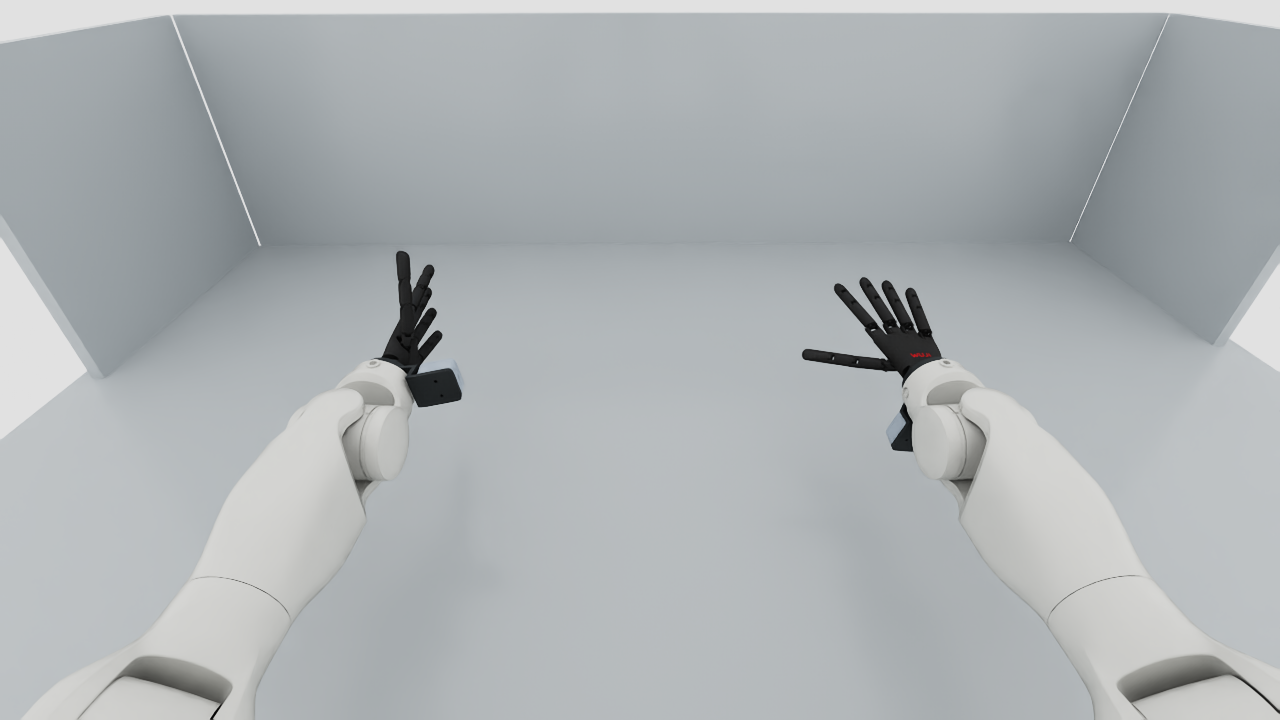
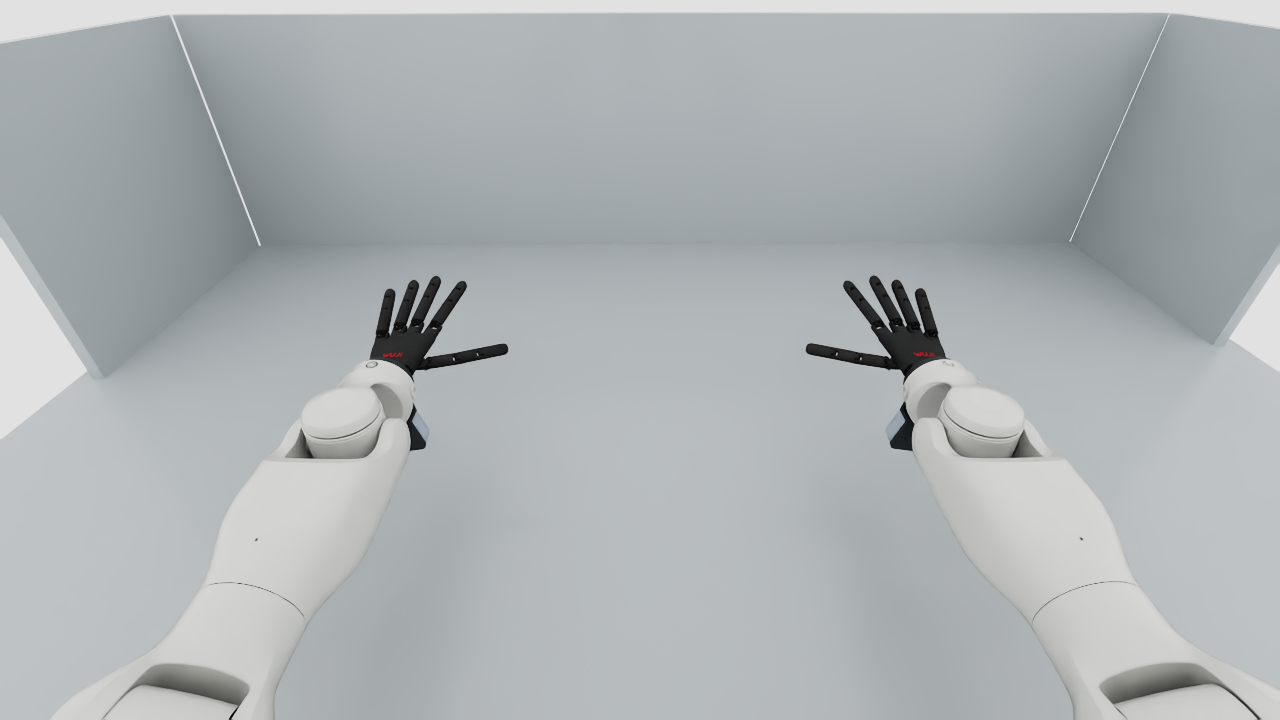
feat: mirror wrist mounts and reproduce PI05 startup pose
Apply gravity compensation before physics steps to reduce the startup transient.

diff --git a/build_pi05_scene.py b/build_pi05_scene.py
@@ -12,7 +12,8 @@ from pxr import Gf, Sdf, Usd, UsdGeom, UsdPhysics
 STIFFNESS = [2, 2, 2, 1.6, 1, 1, 1]  # N m / degree
 DAMPING_RATIOS = [0.3, 0.3, 0.3, 0.2, 0.2, 0.2, 0.2]
 PAYLOADS = {"L": (0.783, (13.574, 4.605, 99.013)),
-            "R": (0.987, (17.320, 6.692, 66.900))}
+            # Right tool assembly was rotated +90 degrees around the TCP Z axis.
+            "R": (0.987, (-6.692, 17.320, 66.900))}
 
 
 def parallel_axis(mass, offset):
@@ -107,12 +108,13 @@ def build_autoplay_scene():
     graph.CreateAttribute("evaluator:type", Sdf.ValueTypeNames.Token).Set("execution")
     graph.CreateAttribute("fabricCacheBacking", Sdf.ValueTypeNames.Token).Set("Shared")
     graph.CreateAttribute("fileFormatVersion", Sdf.ValueTypeNames.Int2).Set(Gf.Vec2i(1, 6))
-    graph.CreateAttribute("pipelineStage", Sdf.ValueTypeNames.Token).Set("pipelineStageOnDemand")
+    graph.CreateAttribute("pipelineStage", Sdf.ValueTypeNames.Token).Set("pipelineStageSimulation")
 
-    tick = stage.DefinePrim(graph.GetPath().AppendChild("OnPhysicsStep"), "OmniGraphNode")
-    tick.CreateAttribute("node:type", Sdf.ValueTypeNames.Token).Set("isaacsim.core.nodes.OnPhysicsStep")
+    tick = stage.DefinePrim(graph.GetPath().AppendChild("OnTick"), "OmniGraphNode")
+    tick.CreateAttribute("node:type", Sdf.ValueTypeNames.Token).Set("omni.graph.action.OnTick")
     tick.CreateAttribute("node:typeVersion", Sdf.ValueTypeNames.Int).Set(1)
-    pulse = tick.CreateAttribute("outputs:step", Sdf.ValueTypeNames.UInt)
+    tick.CreateAttribute("inputs:onlyPlayback", Sdf.ValueTypeNames.Bool).Set(False)
+    pulse = tick.CreateAttribute("outputs:tick", Sdf.ValueTypeNames.UInt)
 
     control = stage.DefinePrim(graph.GetPath().AppendChild("Impedance"), "OmniGraphNode")
     control.CreateAttribute("node:type", Sdf.ValueTypeNames.Token).Set("omni.graph.scriptnode.ScriptNode")

diff --git a/pi05_graph_controller.py b/pi05_graph_controller.py
@@ -1,7 +1,7 @@
 """Source embedded as text in the USD Action Graph."""
 import numpy as np
+import omni.physics.core
 import omni.physics.tensors as tensors
-import omni.timeline
 import omni.usd
 
 
@@ -27,17 +27,33 @@ def initialize(state, context, ratios):
     return True
 
 
-def compute(db):
-    if not omni.timeline.get_timeline_interface().is_playing():
-        return True
-    context = omni.usd.get_context()
-    state = db.per_instance_state
+def apply_control(state):
+    if state.context.get_stage() != state.stage:
+        return
     art = getattr(state, "art", None)
     if art is None or not art.check():
-        if not initialize(state, context, db.inputs.dampingRatios):
-            return True
+        if not initialize(state, state.context, state.ratios):
+            return
         art = state.art
     inds = state.arm_indices
     state.efforts[0, inds] = art.get_gravity_compensation_forces()[0, inds]
     art.set_dof_actuation_forces(state.efforts, state.articulation_indices)
+
+
+def compute(db):
+    state = db.per_instance_state
+    if getattr(state, "pre_step", None) is None:
+        state.context = omni.usd.get_context()
+        state.stage = state.context.get_stage()
+        state.ratios = np.asarray(db.inputs.dampingRatios).copy()
+        state.physics = omni.physics.core.get_physics_simulation_interface()
+        state.pre_step = state.physics.subscribe_physics_on_step_events(
+            pre_step=True, order=0, on_update=lambda _dt, _context: apply_control(state)
+        )
     return True
+
+
+def cleanup(db):
+    state = db.per_instance_state
+    state.pre_step = None
+    state.art = state.sim = None

diff --git a/README.md b/README.md
@@ -2,7 +2,7 @@
 
 在 Isaac Sim 6.0 中使用 **File → Open** 打开同目录的 `workspace_pi05.usda`。如果出现 **ScriptNode Warning**，在当前会话授权后点 **Play**。内嵌 Action Graph 会启用重力补偿和阻尼，无需运行独立控制脚本。
 
-场景包含天机双臂、舞肌双手、相机、桌面和三面围挡。初始关节角来自实机双臂读数，手指采用模型的初始姿态。
+场景包含天机双臂、舞肌双手、相机、桌面和三面围挡。右臂初始角度取自 53 段原始 LeRobot 录制首帧的逐关节中位数，左臂按机器人左右对称面镜像。手指采用模型的初始姿态。
 
 ## 场景文件
 
@@ -13,7 +13,7 @@
 | [`workspace_pi05_cameras.usda`](workspace_pi05_cameras.usda) | 加载完整仿真并附加头部、左腕和右腕的 RGB 相机。 |
 | [`workspace_pi05.usda`](workspace_pi05.usda) | 场景入口。内嵌 Action Graph，播放时启用重力补偿和阻尼。 |
 | [`workspace_pi05_impedance.usda`](workspace_pi05_impedance.usda) | 定义 PI05 对应的关节刚度与末端负载质量和质心。 |
-| [`workspace_measured_arms.usda`](workspace_measured_arms.usda) | 保存实测的双臂初始关节角、驱动目标和对应的连杆姿态。 |
+| [`workspace_measured_arms.usda`](workspace_measured_arms.usda) | 保存录制推导出的双臂初始关节角、驱动目标和对应的连杆姿态。 |
 | [`workspace_factory_robot.usda`](workspace_factory_robot.usda) | 装配舞肌双手，定义机械臂的质量、惯量、关节限位和碰撞形状。 |
 | [`workspace_appearance.usda`](workspace_appearance.usda) | 定义场景材质，并载入机器人、桌面和围挡的基础场景。 |
 
@@ -22,6 +22,8 @@
 ## RGB 相机预览
 
 打开相机场景后，从视口的 **Perspective** 菜单选择头部或腕部相机。头部相机固定在机架上，双腕相机随各自的末端连杆运动。光心和朝向来自安装关系，焦距、主点和畸变参数来自 [ROS 驱动的 CameraInfo](camera_rgb_driver_info.json)。
+
+右手和右腕相机组件绕右腕 TCP 的 Z 轴转回了 90°，安装位置与左侧近似镜像。
 
 下图为双臂初始姿态下的仿真画面。头部原图为 1280×720，双腕原图均为 848×480。[头部](camera_preview/head.png) · [左腕](camera_preview/left_wrist.png) · [右腕](camera_preview/right_wrist.png)
 
